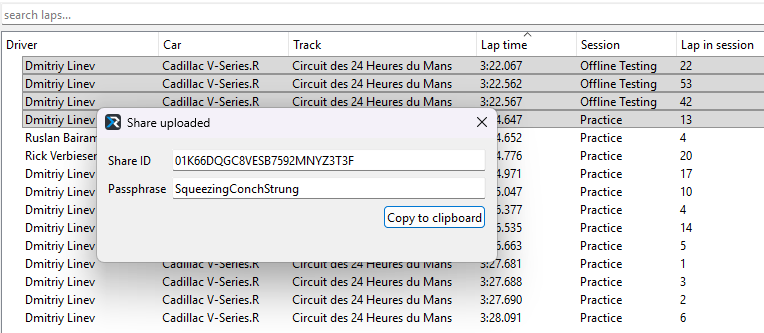
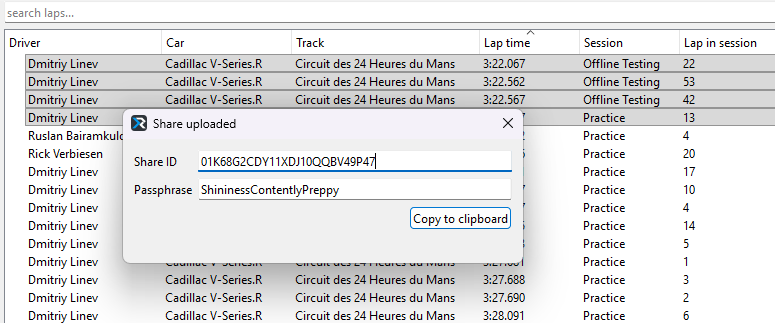
Update based on the new smart paste behavior

Changed region(s): [[0.0, 0.031, 1.0, 1.0]]

diff --git a/docs/analyzer/instant_share.md b/docs/analyzer/instant_share.md
@@ -21,8 +21,8 @@ quickly copy all the necessary info to clipboard. Then just send it over any one
 // cSpell:disable
 
 ```
-Share ID: 01K66DQGC8VESB7592MNYZ3T3F
-Passphrase: SqueezingConchStrung
+Share ID: 01K68G2CDY11XDJ10QQBV49P47
+Passphrase: ShininessContentlyPreppy
 ```
 
 // cSpell:enable
@@ -38,6 +38,10 @@ To download the instant share open a Lap library window, click **"Laps"** main m
 Paste the Share ID and Passphrase in the window:
 
 ![Download instant share](img/analyzer_download_instant_share.gif "Download instant share")
+
+Note that you don't have to paste Share ID and passphrase separately, if you copied the whole message you can just 
+hit Ctrl+V on any of the fields in this dialog and it will automagically fill the necessary fields as shown in the gif 
+above.
 
 After a short period of downloading shared laps will appear in your Lap library.
 

diff --git a/docs/analyzer/instant_share.ru.md b/docs/analyzer/instant_share.ru.md
@@ -39,6 +39,10 @@ Passphrase: SqueezingConchStrung
 
 ![Download instant share](img/analyzer_download_instant_share.gif "Download instant share")
 
+Обратите внимание, что нет необходимости вставлять Share ID и пароль по отдельности. Если вы скопировали всё сообщение 
+целиком, просто нажмите Ctrl+V в любое поле этого диалогового окна, и необходимые поля автоматически заполнятся, как 
+показано на гифке выше.
+
 Через короткое время загруженные круги появятся в вашей библиотеке кругов.
 
 !!! Важно
